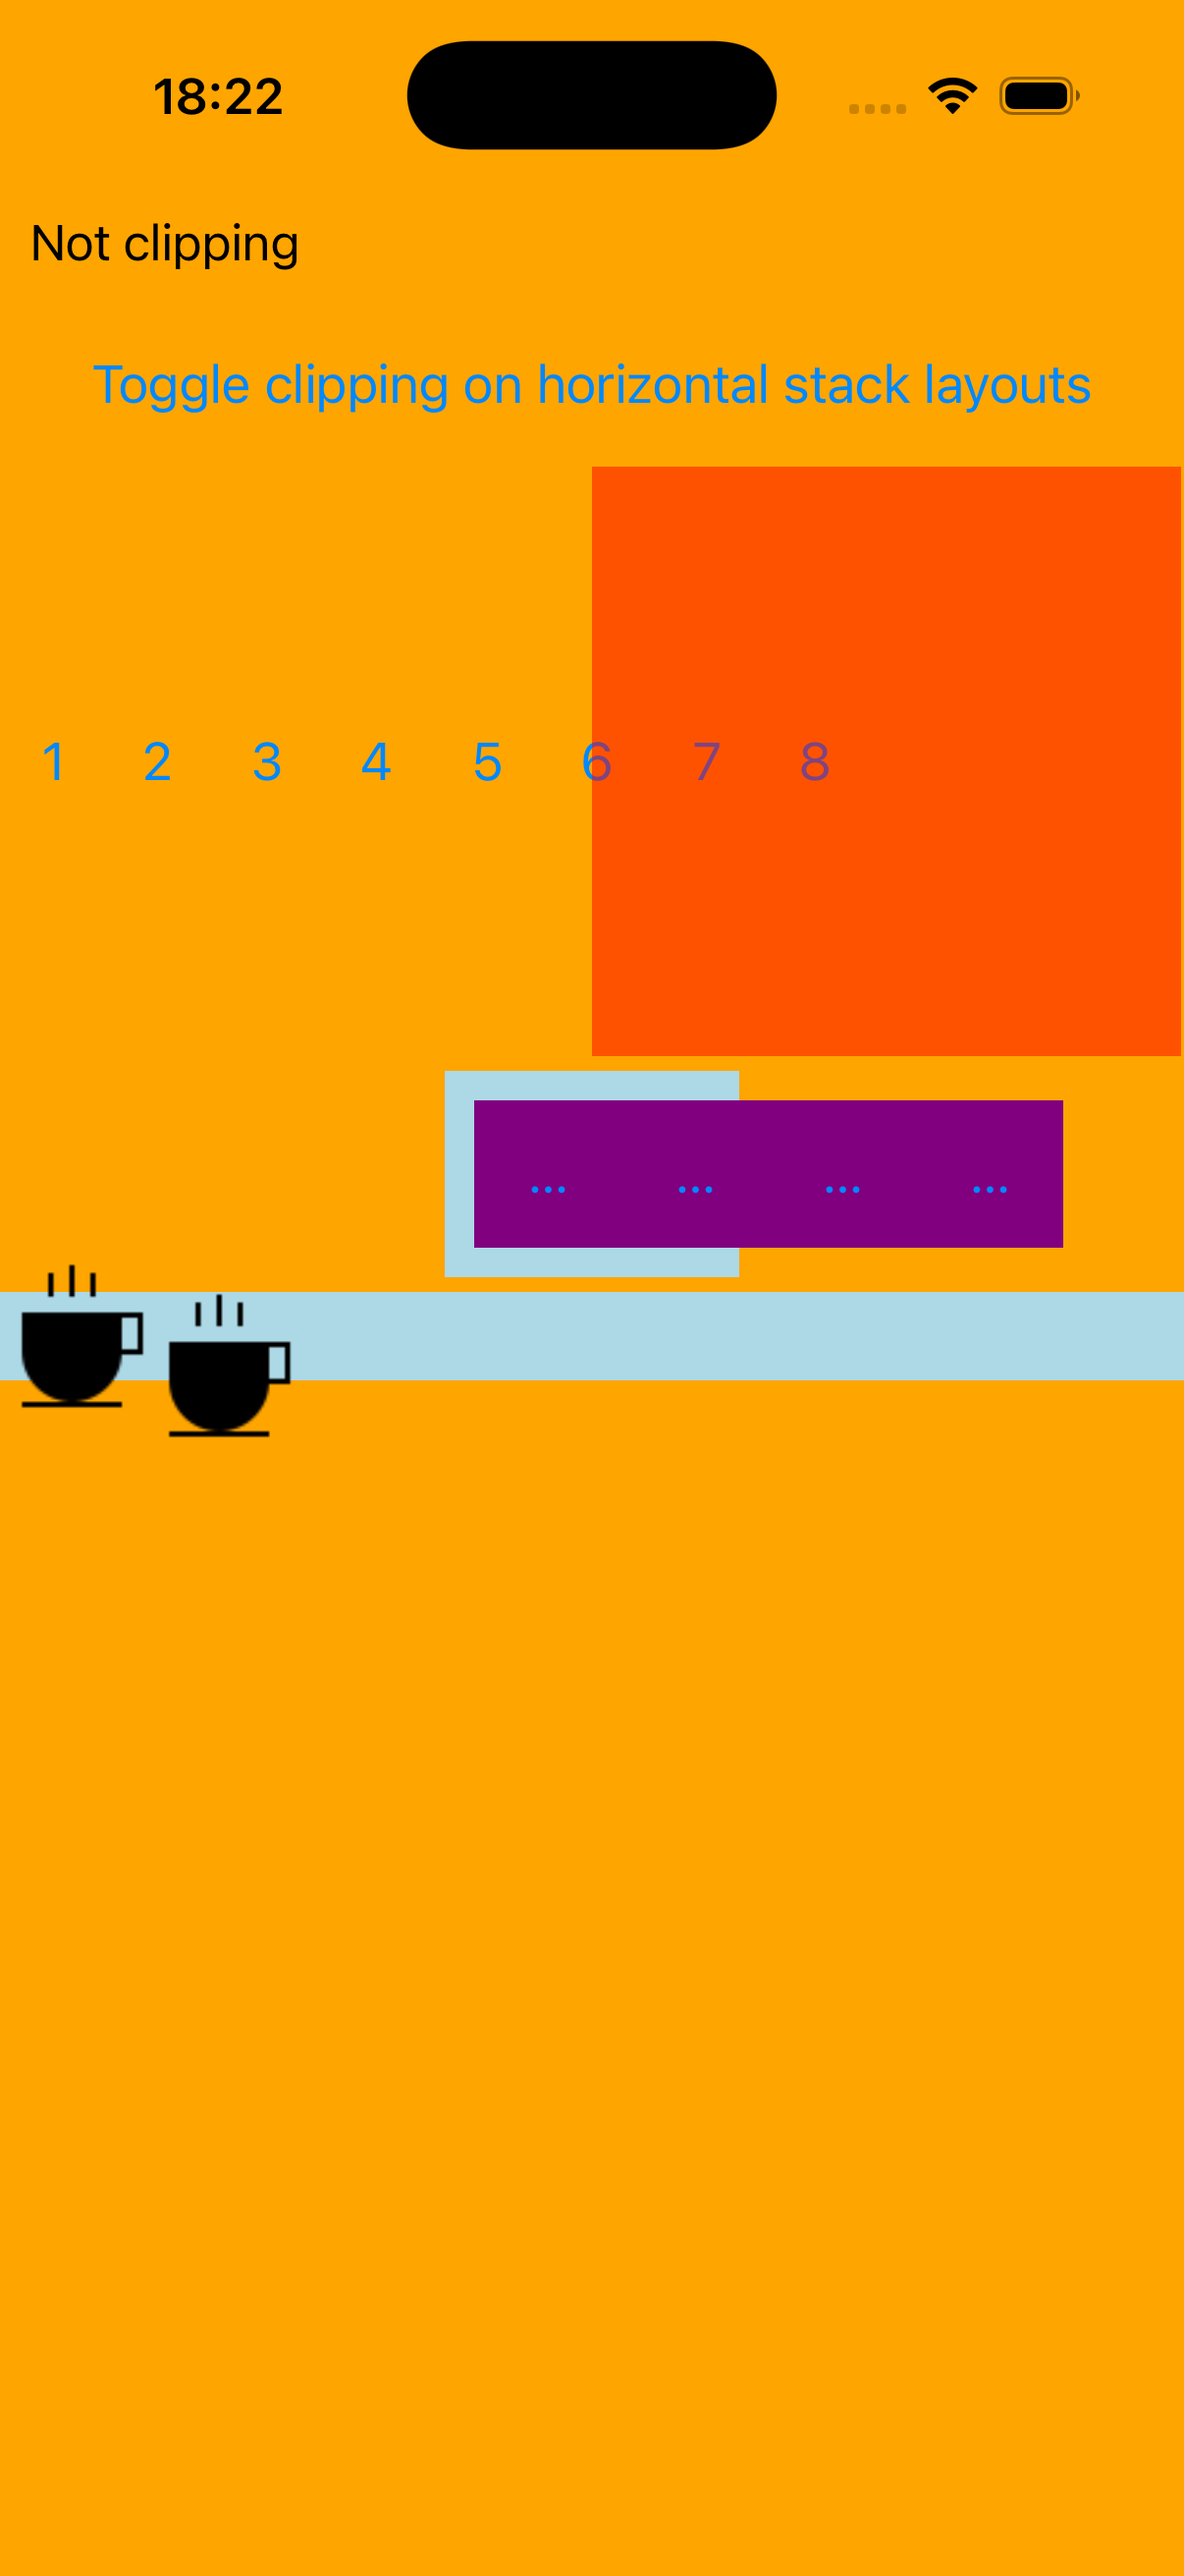
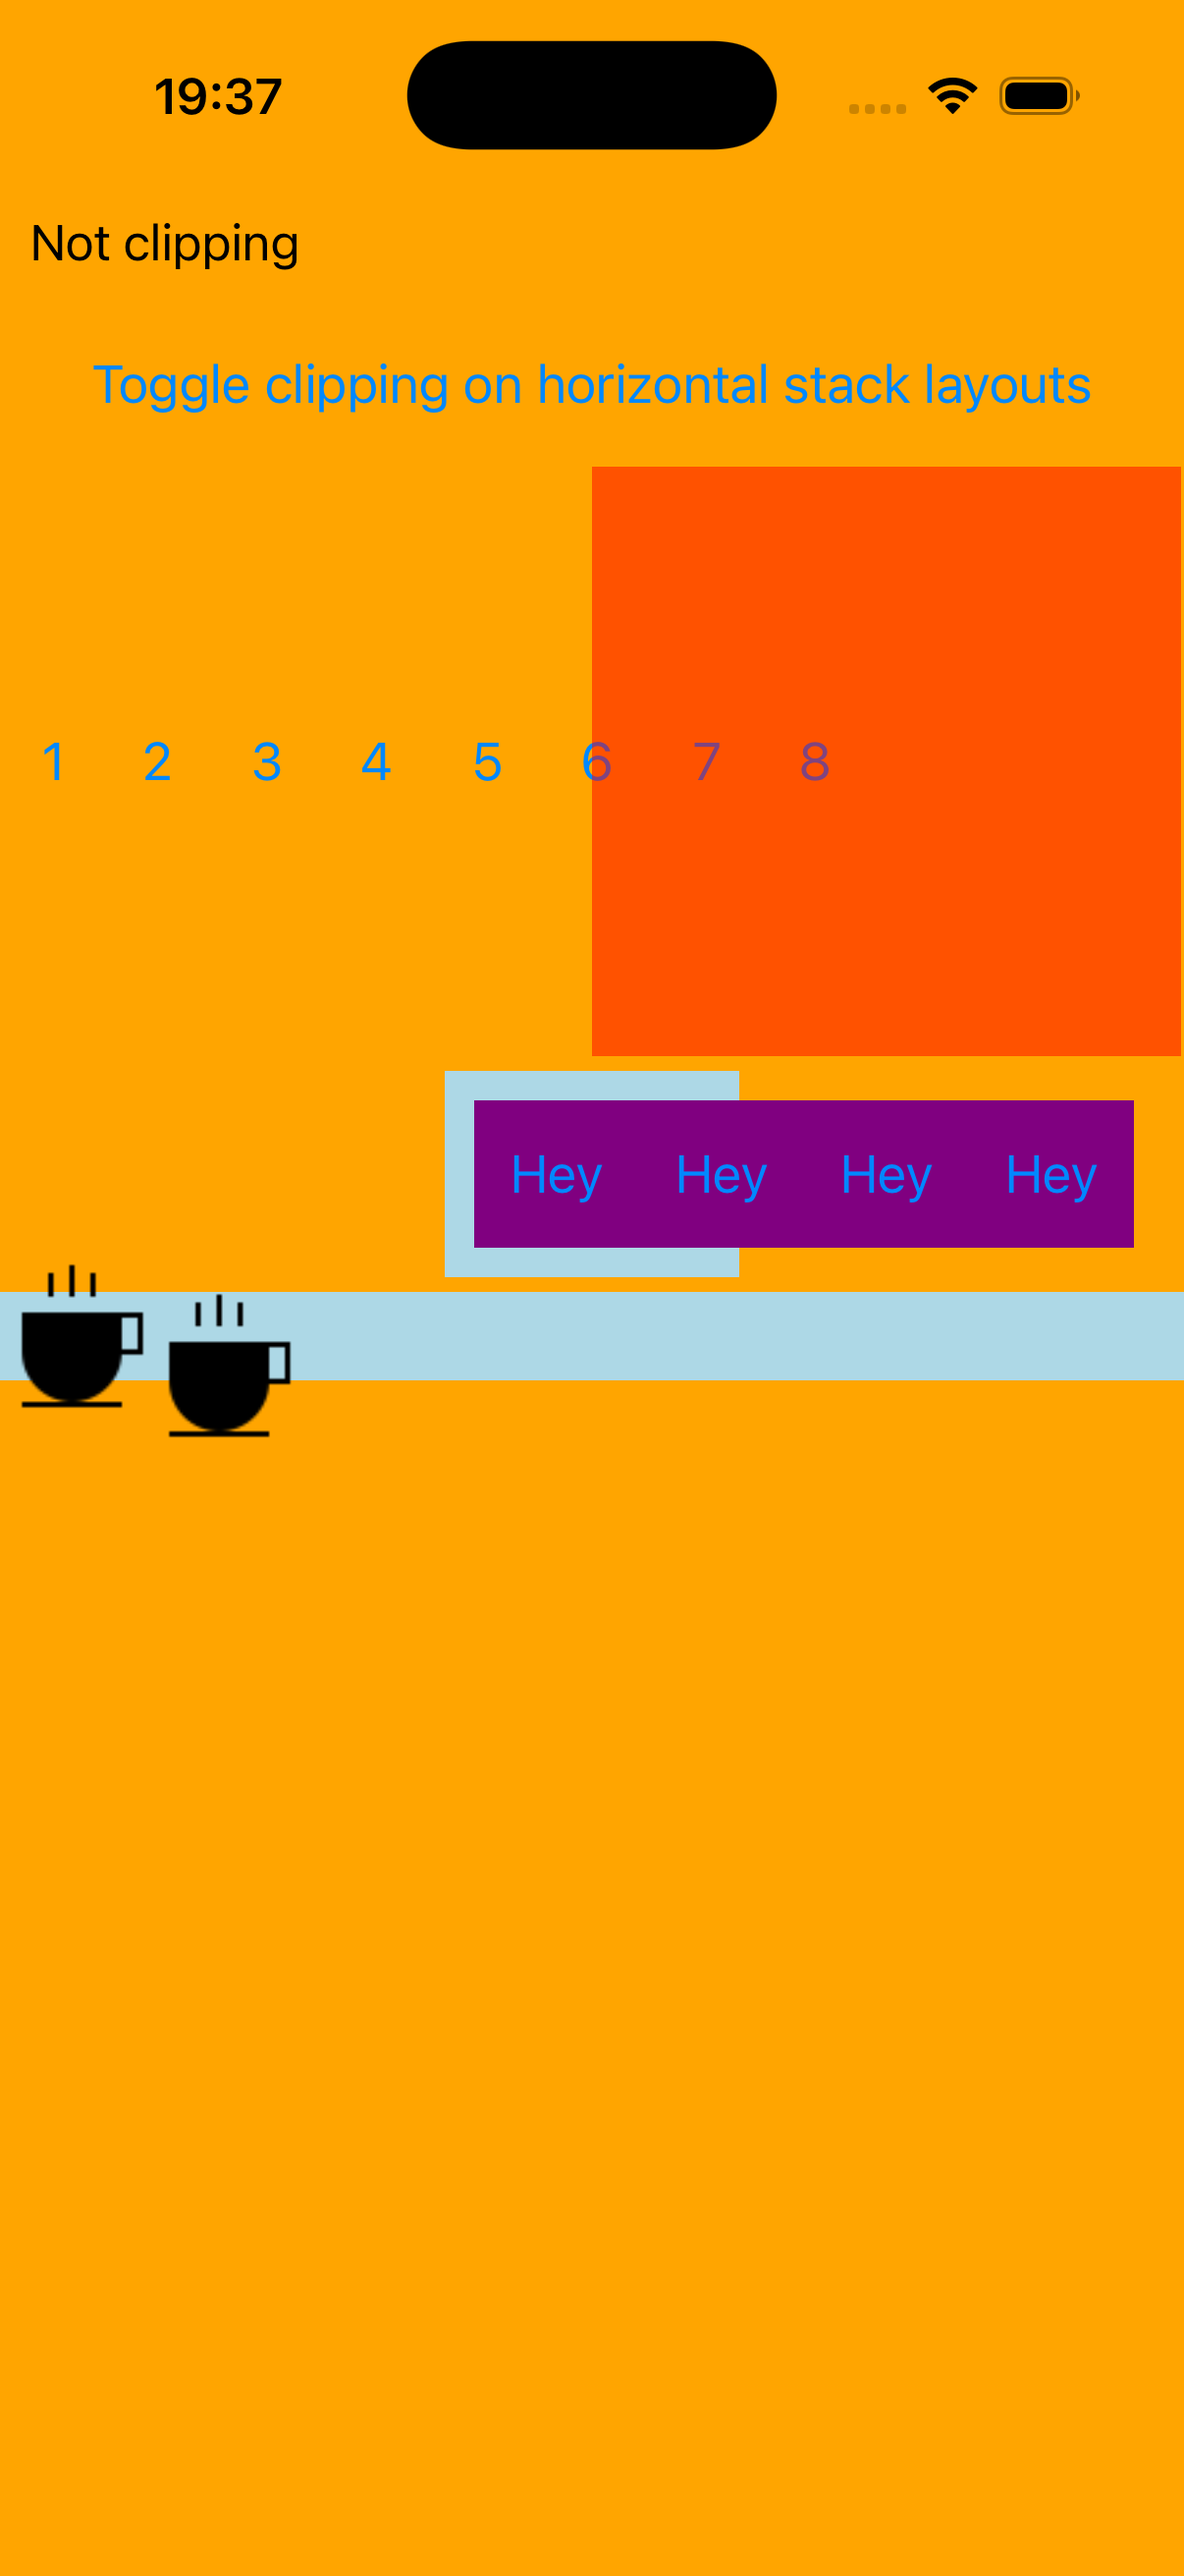
fix(button,ios/apple): native button measure floors at intrinsic content size
clipping Layout2's WidthRequest=50 "Hey" buttons truncated to "…" on iOS:
the port clamped the button to the 50pt request, but real .NET MAUI renders
them at their full natural width (~63pt, spilling past the 100pt container).

A native UIButton/NSButton cannot render narrower than its title+insets — MAUI
surfaces this through ButtonHandler.NeedsContainer/WrapperView (unported here).
Add an opt-in handler hook i_view_handler::content_is_minimum_size() (default
false; true only for iOS+macOS button_handler, false for headless/Android where
MAUI clamps). view<>::measure floors the resolved size at min(content, maximum)
when set, so an explicit request smaller than the content grows to it.

Not the stack layout manager (HorizontalStackLayoutManager arranges every child
at DesiredSize.Width, no distribution — C# and the port are identical).

Verified on-sim (clipping, light+dark): full "Hey" now renders; comparison
captures refreshed. Headless 354/354; iOS+macOS compile; clang-tidy: 0 new.

diff --git a/port/cpp/include/maui/controls/view.hpp b/port/cpp/include/maui/controls/view.hpp
@@ -612,15 +612,28 @@ namespace maui::controls
         {
             const maui::core::thickness view_margin = this->margin();
             maui::graphics::size content{};
+            bool content_floor = false;
             if (auto* view_handler = dynamic_cast<maui::core::i_view_handler*>(handler_.get()))
             {
                 content = view_handler->get_desired_size(width_constraint - view_margin.horizontal_thickness(),
                                                          height_constraint - view_margin.vertical_thickness());
+                content_floor = view_handler->content_is_minimum_size();
             }
-            desired_size_ = {resolve_size_request(content.width, width(), minimum_width(), maximum_width()) +
-                                 view_margin.horizontal_thickness(),
-                             resolve_size_request(content.height, height(), minimum_height(), maximum_height()) +
-                                 view_margin.vertical_thickness()};
+            double resolved_width = resolve_size_request(content.width, width(), minimum_width(), maximum_width());
+            double resolved_height = resolve_size_request(content.height, height(), minimum_height(), maximum_height());
+            if (content_floor)
+            {
+                // The handler reports its measured content as a hard lower bound (a native iOS/macOS button
+                // cannot render narrower/shorter than its title + insets — MAUI surfaces this via its
+                // NeedsContainer WrapperView, which the port lacks). So an explicit WidthRequest/HeightRequest
+                // smaller than the content GROWS to the content instead of truncating it, while Maximum* still
+                // caps the result. Matches the maui-compare reference for ClippingPage Layout2 (the
+                // WidthRequest=50 "Hey" buttons render at their full natural width).
+                resolved_width = std::max(resolved_width, std::min(content.width, maximum_width()));
+                resolved_height = std::max(resolved_height, std::min(content.height, maximum_height()));
+            }
+            desired_size_ = {resolved_width + view_margin.horizontal_thickness(),
+                             resolved_height + view_margin.vertical_thickness()};
             return desired_size_;
         }
         void invalidate_measure() override

diff --git a/port/cpp/include/maui/core/i_view_handler.hpp b/port/cpp/include/maui/core/i_view_handler.hpp
@@ -66,6 +66,19 @@ namespace maui::core
                                                                     double height_constraint) const = 0;
         virtual void platform_arrange(const maui::graphics::rect& frame) = 0;
 
+        // Whether the size get_desired_size reports is a hard LOWER BOUND — the native view cannot render
+        // smaller than its content, so an explicit WidthRequest/HeightRequest narrower than the content grows
+        // to the content rather than truncating it. False for nearly every handler (the cross-platform
+        // ResolveConstraints contract lets an explicit request shrink the measured size). True only where a
+        // platform control enforces its intrinsic content size — the iOS UIButton / macOS NSButton, which MAUI
+        // surfaces through its NeedsContainer WrapperView (unported here); see view<>::measure, which floors the
+        // resolved size at the content when this is set. Mirrors the maui-compare reference for ClippingPage
+        // Layout2 (WidthRequest=50 "Hey" buttons render at their full natural width).
+        [[nodiscard]] virtual bool content_is_minimum_size() const
+        {
+            return false;
+        }
+
     protected:
         i_view_handler() = default;
         i_view_handler(const i_view_handler&) = default;

diff --git a/port/cpp/src/platform/ios/button_handler.mm b/port/cpp/src/platform/ios/button_handler.mm
@@ -489,6 +489,16 @@ namespace maui::core
         return {fitting.width, fitting.height};
     }
 
+    // A UIButton cannot render smaller than its intrinsic content (title + content insets). MAUI surfaces
+    // this through ButtonHandler.NeedsContainer/WrapperView: the wrapped button's measured size is a floor,
+    // so a WidthRequest/HeightRequest narrower than the content grows to the content instead of truncating
+    // the title to "…". The port has no WrapperView, so view<>::measure honors this flag directly — matching
+    // the maui-compare reference (ClippingPage Layout2's WidthRequest=50 "Hey" buttons render full-width).
+    bool button_handler::content_is_minimum_size() const
+    {
+        return true;
+    }
+
     void button_handler::platform_arrange(const maui::graphics::rect& frame)
     {
         auto* platform = typed_platform_view();

diff --git a/port/cpp/include/maui/core/button_handler.hpp b/port/cpp/include/maui/core/button_handler.hpp
@@ -173,6 +173,11 @@ namespace maui::core
                                                             double height_constraint) const override;
         void platform_arrange(const maui::graphics::rect& frame) override;
 
+        // A native button cannot render narrower/shorter than its title+insets, so its measured size is a
+        // lower bound (the iOS/macOS backends return true; headless/Android keep the cross-platform clamp).
+        // Defined per backend alongside get_desired_size.
+        [[nodiscard]] bool content_is_minimum_size() const override;
+
         // Property map functions (platform recipe), each pushing one virtual-view property onto the
         // platform view. Text/appearance are keyed by i_text_button (C#'s TextButtonMapper<ITextButton>);
         // padding + stroke are keyed by i_button (the button's own mapper).

diff --git a/port/cpp/src/platform/apple/button_handler.mm b/port/cpp/src/platform/apple/button_handler.mm
@@ -342,6 +342,15 @@ namespace maui::core
         return {fitting.width, fitting.height};
     }
 
+    // An NSButton cannot render smaller than its intrinsic content (title + insets) — the AppKit twin of the
+    // UIKit floor. MAUI surfaces it through ButtonHandler.NeedsContainer/WrapperView; with no container in the
+    // port, view<>::measure honors this flag so an under-sized WidthRequest/HeightRequest grows to the content
+    // instead of clipping the title.
+    bool button_handler::content_is_minimum_size() const
+    {
+        return true;
+    }
+
     void button_handler::platform_arrange(const maui::graphics::rect& frame)
     {
         auto* platform = typed_platform_view();

diff --git a/port/cpp/src/platform/android/button_handler.cpp b/port/cpp/src/platform/android/button_handler.cpp
@@ -936,6 +936,13 @@ namespace maui::core
         return {static_cast<double>(measured_width) / density, static_cast<double>(measured_height) / density};
     }
 
+    // Android keeps the cross-platform ResolveConstraints clamp (an explicit size request overrides the
+    // measured size) — the intrinsic-content floor is an iOS/macOS native-button behavior. False here.
+    bool button_handler::content_is_minimum_size() const
+    {
+        return false;
+    }
+
     void button_handler::platform_arrange(const maui::graphics::rect& frame)
     {
         auto* platform = typed_platform_view();

diff --git a/port/cpp/src/platform/headless/button_handler.cpp b/port/cpp/src/platform/headless/button_handler.cpp
@@ -131,6 +131,13 @@ namespace maui::core
         return {width, 20.0};
     }
 
+    // Headless mirrors the cross-platform ResolveConstraints contract (an explicit size request clamps the
+    // measured size) — the intrinsic-content floor is a native iOS/macOS behavior, not a unit-test one.
+    bool button_handler::content_is_minimum_size() const
+    {
+        return false;
+    }
+
     void button_handler::platform_arrange(const maui::graphics::rect& /*frame*/)
     {
         // Headless: no native layout to apply.
